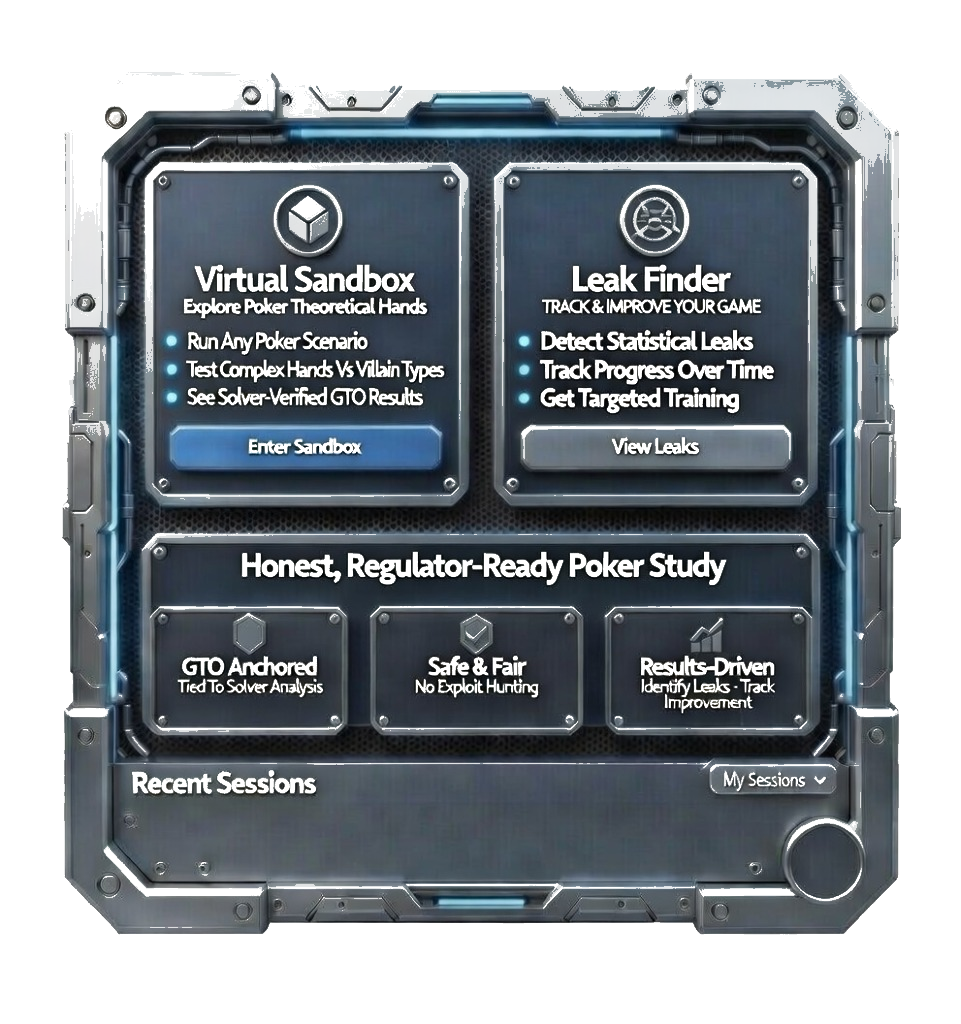
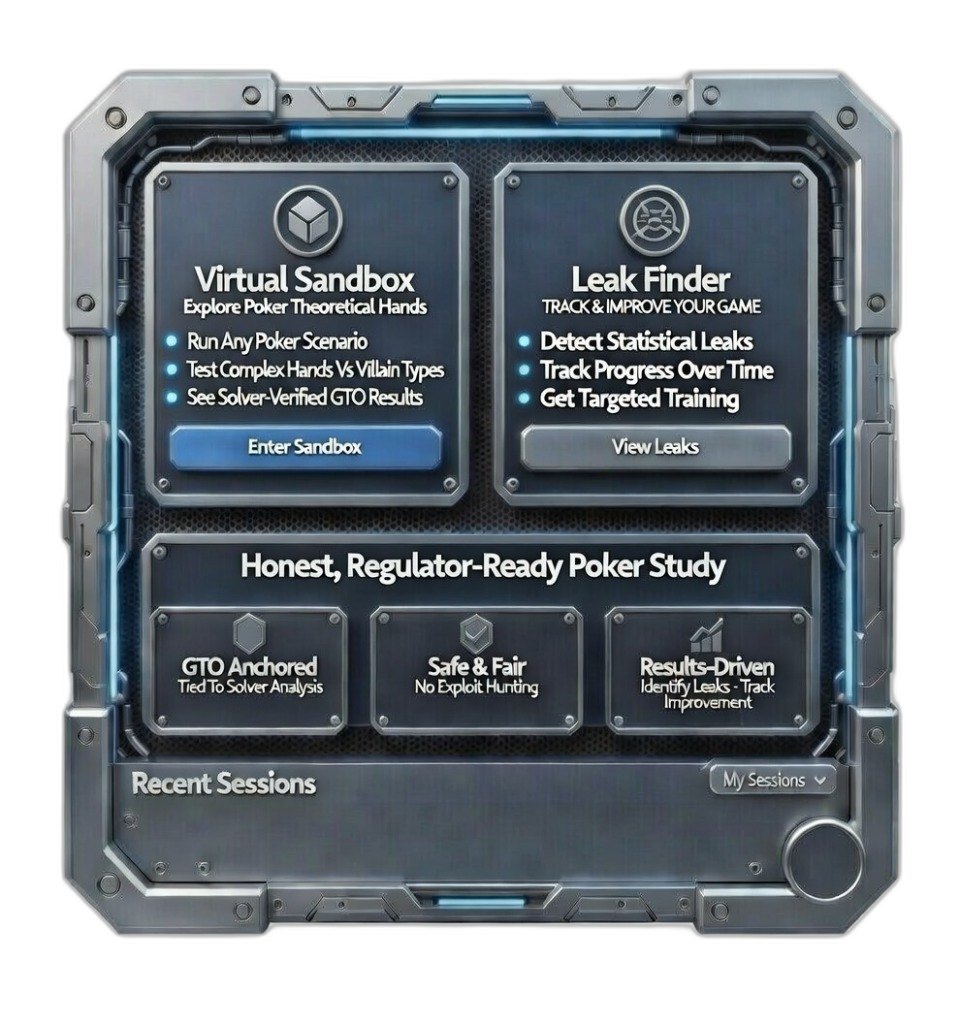
Daily update

diff --git a/pages/hub/personal-assistant/index.js b/pages/hub/personal-assistant/index.js
@@ -100,7 +100,7 @@ export default function PersonalAssistantPage() {
         <div style={S.frameContainer}>
           {/* The metal frame image — covers the full page */}
           <img
-            src="/images/personal-assistant-frame.png"
+            src="/images/personal-assistant-frame-dark.jpg"
             alt="Strategy Hub"
             style={S.frameImage}
             draggable={false}
